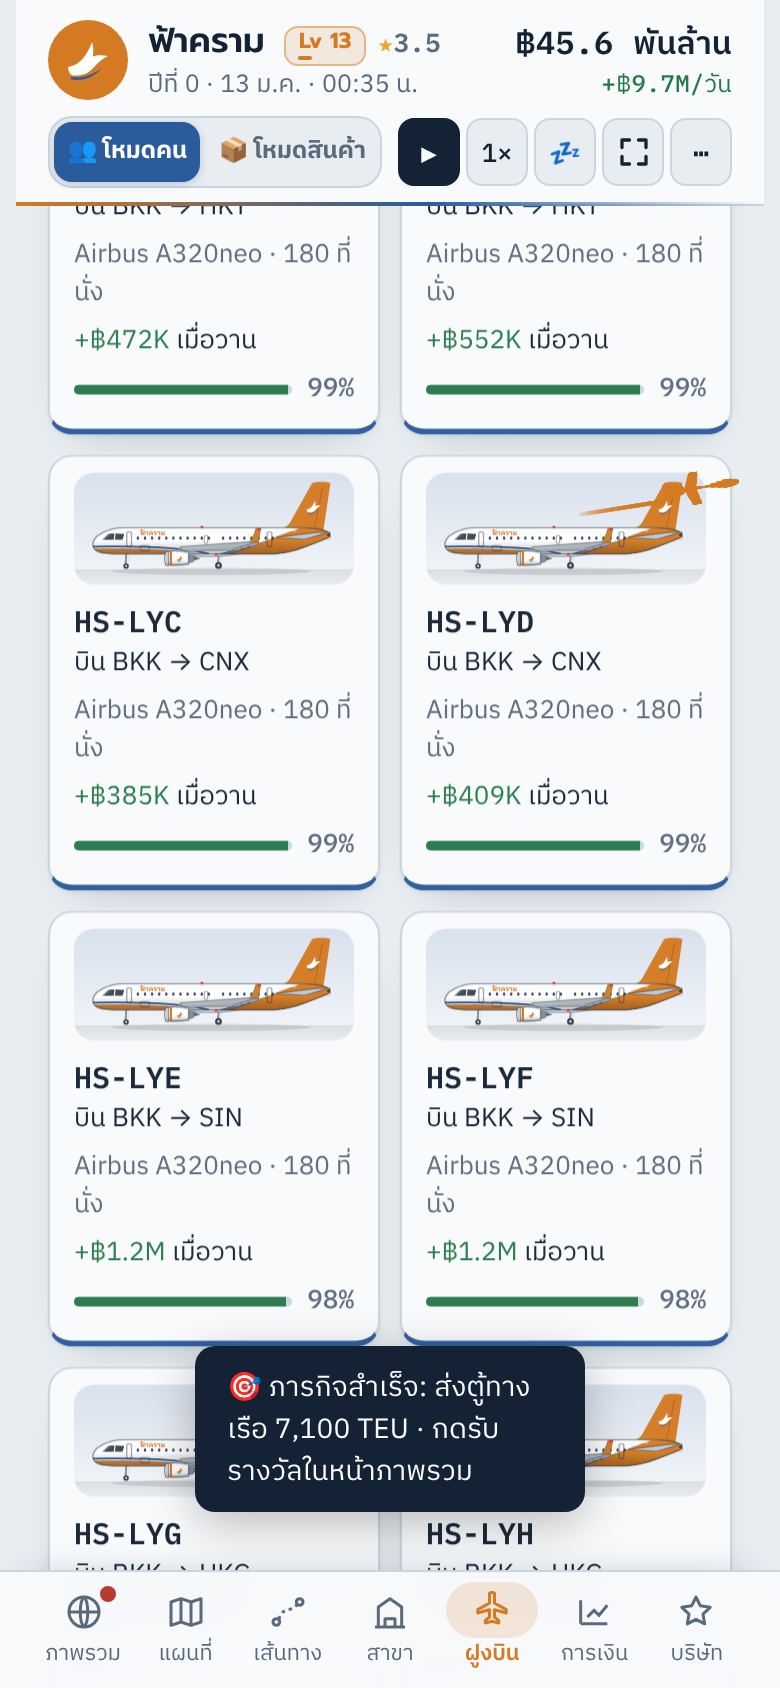
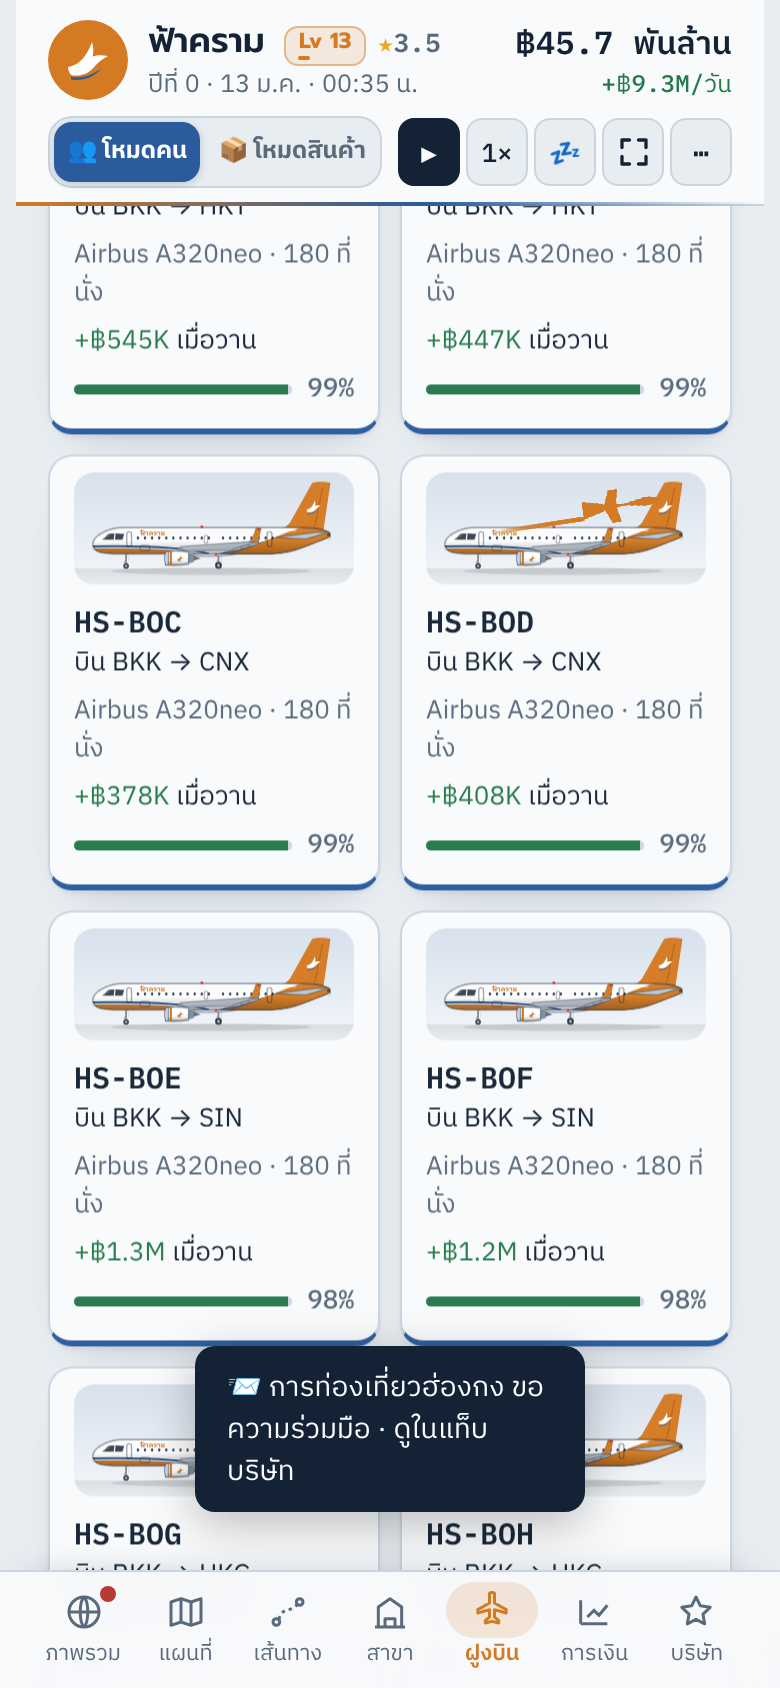
Show how much each parked aircraft or ship would earn on a route (v1.42)
- Route and sea lane sheets show, for each parked aircraft/ship, the extra
  profit per day the route would make with it, sorted best first, with a
  'best' tag and a red 'not worth it' tag when it adds nothing
- Reserves no longer appear in those parked lists

Claude-Session: https://claude.ai/code/session_014RDu36NGZdJHnhfEAQskbE

diff --git a/index.html b/index.html
@@ -17,7 +17,7 @@
 <link rel="preconnect" href="https://fonts.googleapis.com">
 <link rel="preconnect" href="https://fonts.gstatic.com" crossorigin>
 <link rel="stylesheet" href="https://fonts.googleapis.com/css2?family=IBM+Plex+Sans+Thai:wght@400;500;600;700&family=Prompt:wght@500;600;700&family=IBM+Plex+Mono:wght@500;600&family=Anuphan:wght@400&family=Chakra+Petch:ital,wght@0,700;1,700&display=swap">
-<link rel="stylesheet" href="css/style.css?v=1.41">
+<link rel="stylesheet" href="css/style.css?v=1.42">
 </head>
 <body>
 
@@ -25,8 +25,8 @@
 <div id="app"></div>
 <div id="toast" class="toast" hidden></div>
 
-<script src="js/geo.js?v=1.41"></script>
-<script src="js/game.js?v=1.41"></script>
+<script src="js/geo.js?v=1.42"></script>
+<script src="js/game.js?v=1.42"></script>
 <script>
 // offline + "add to home screen": the service worker serves the last version when there is no network,
 // and always fetches the newest files first when online (so updates show up on a normal reload)

diff --git a/css/style.css b/css/style.css
@@ -917,3 +917,5 @@ button.ptr{cursor:pointer}button.ptr:hover{background:var(--grid)}
 .rsvtag{background:#e8f0ff;color:#1d4ed8;border-radius:6px;padding:0 5px;font-weight:600;white-space:nowrap}
 @media (prefers-color-scheme: dark){:root:not([data-theme="light"]) .rsvtag{background:#1e2a4a;color:#9db8ff}}
 :root[data-theme="dark"] .rsvtag{background:#1e2a4a;color:#9db8ff}
+
+.gtag{display:inline-block;font-weight:700;color:var(--good);white-space:nowrap}.gtag.best{border:1.5px solid var(--good);border-radius:6px;padding:0 6px}.gtag.no{color:var(--bad);font-weight:600}
